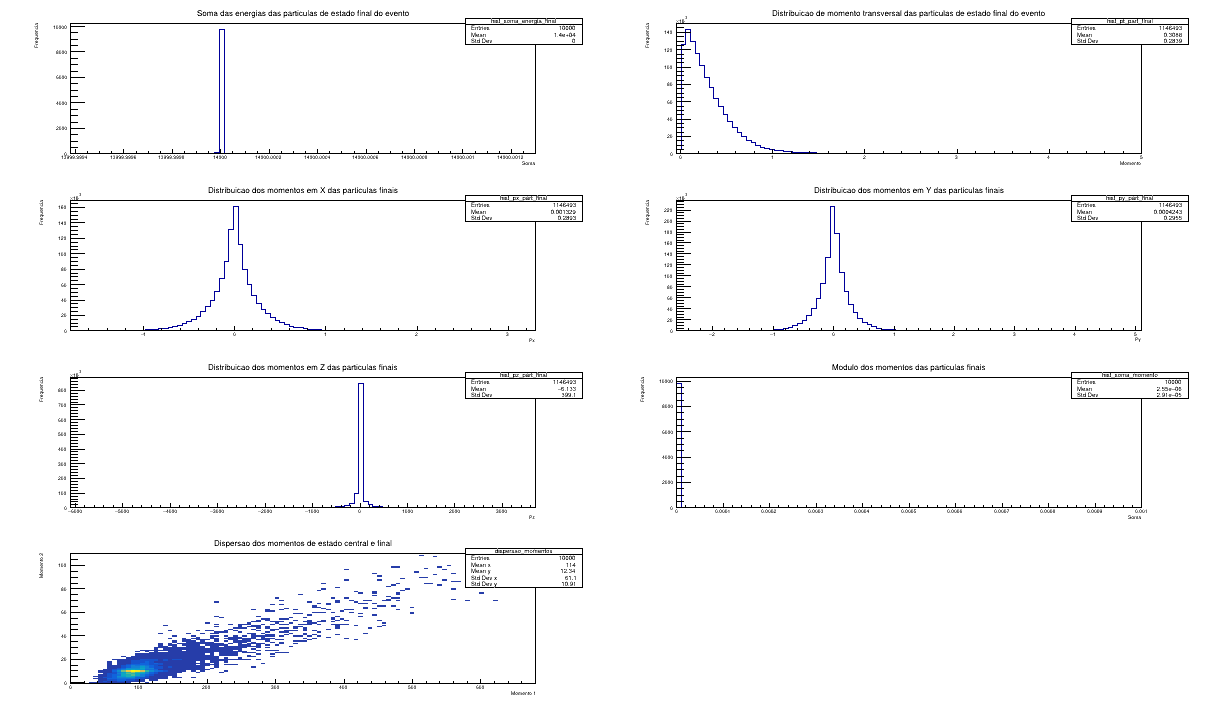
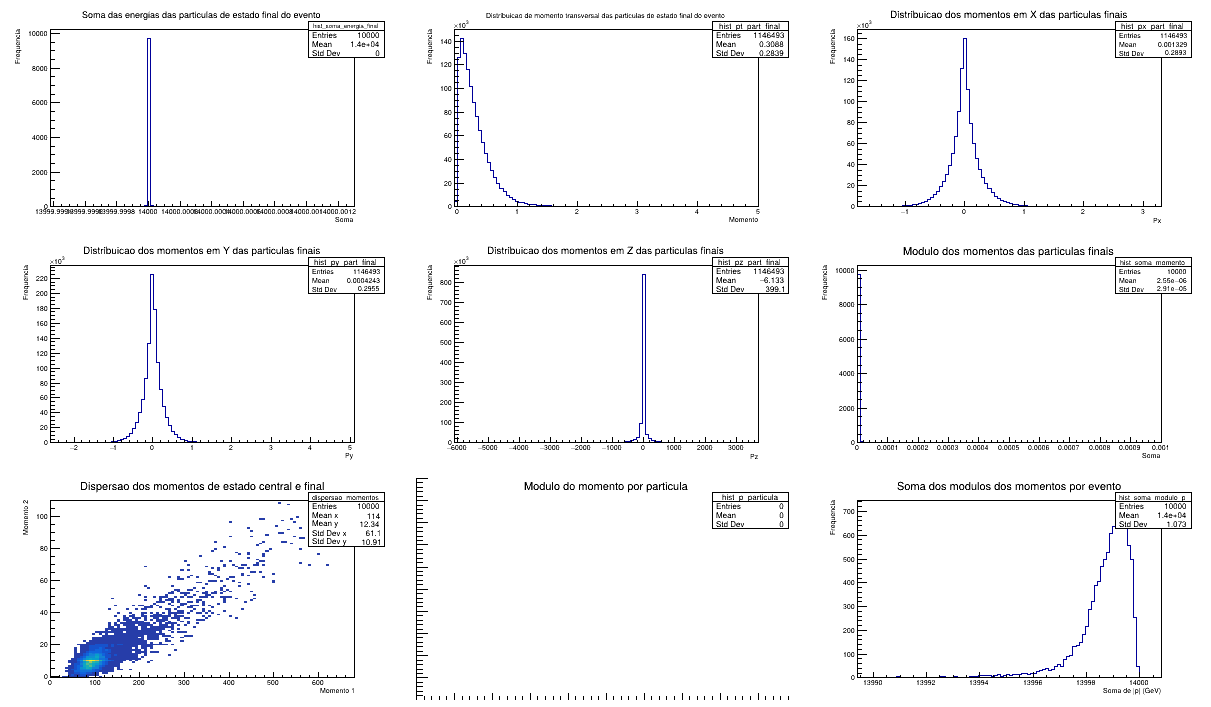
Adiciona graficos de rapidez, modulo do momento e saidas

diff --git a/teste_Ajustado.cpp b/teste_Ajustado.cpp
@@ -34,6 +34,9 @@ void distribuicoes_de_energia_e_momento(Int_t nev = 10000, Int_t ndeb = 1 /* Lis
   Double_t px, py, pz; // ADICIONADO (Faltou pz)
   Double_t energia_part_final;
   Double_t pt, cont_pt = 0, cont_pt2 = 0;
+  Double_t p_modulo, soma_modulo_p_modulo = 0;
+  Double_t rapidez_part_final;
+  
 
   // ADICIONADO: acumuladores dos numeros quanticos que faltavam no original.
   Double_t soma_carga = 0, soma_barionico = 0, soma_leptonico = 0;
@@ -44,8 +47,11 @@ void distribuicoes_de_energia_e_momento(Int_t nev = 10000, Int_t ndeb = 1 /* Lis
   TH1F *hist_px_part_final = new TH1F("hist_px_part_final", "Momentos transversais das particulas finais no eixo X", 100, 1, 1);
   TH1F *hist_py_part_final = new TH1F("hist_py_part_final", "Momentos transversais das particulas finais no eixo Y", 100, 1, 1);
   TH1F *hist_pz_part_final = new TH1F("hist_pz_part_final", "Momentos transversais das particulas finais no eixo Z", 100, 1, 1);
+  TH2F *hist_rapidez_energia = new TH2F("hist_rapidez_energia","Energia vs rapidez;Rapidez y;Energia (GeV)",100, -15, 15, 100, 0, 200);      // eixo y: energia, de 0 a 200
   TH1F *hist_soma_momento = new TH1F("hist_soma_momento", "Soma dos momentos das particulas finais dos eventos", 100, 0, 0.001);
   TH2F *dispersao_momentos = new TH2F("dispersao_momentos", "Dispersao dos momentos de estado central e final", 100, 1, 1, 100, 1, 1);
+  TH1F *hist_p_particula = new TH1F("hist_p_particula", "Modulo do momento por particula", 100, 1, 1);
+  TH1F *hist_soma_modulo_p = new TH1F("hist_soma_modulo_p", "Soma dos modulos por evento", 100, 1, 1);
 
   TPythia8 *pythia8 = new TPythia8();
   pythia8->ReadString("HardQCD:all = on");
@@ -58,6 +64,7 @@ void distribuicoes_de_energia_e_momento(Int_t nev = 10000, Int_t ndeb = 1 /* Lis
 
   for (Int_t iev = 0; iev < nev; iev++)
   {
+    soma_modulo_p_modulo = 0;
     cont_pt = 0;
     cont_pt2 = 0;
     soma_de_energia = 0;                                       // CORRIGIDO (faltava zerar a energia)
@@ -88,6 +95,7 @@ void distribuicoes_de_energia_e_momento(Int_t nev = 10000, Int_t ndeb = 1 /* Lis
         pz = part->Pz();                     // ADICIONADO
 
         energia_part_final = part->Energy();
+        rapidez_part_final = part->Y();
 
         Int_t pdg = part->GetPdgCode();      // ADICIONADO: identidade da particula
 
@@ -95,6 +103,9 @@ void distribuicoes_de_energia_e_momento(Int_t nev = 10000, Int_t ndeb = 1 /* Lis
         soma_px += px;
         soma_py += py;
         soma_pz += pz;
+
+        p_modulo = TMath::Sqrt(px*px + py*py + pz*pz); // ADICIONADO2
+        soma_modulo_p_modulo += p_modulo;             // ADICIONADO2
 
         soma_de_energia += energia_part_final;
 
@@ -110,6 +121,9 @@ void distribuicoes_de_energia_e_momento(Int_t nev = 10000, Int_t ndeb = 1 /* Lis
         hist_px_part_final->Fill(px);
         hist_py_part_final->Fill(py);
         hist_pz_part_final->Fill(pz); // ADICIONADO: histograma de pz
+        hist_p_particula->Fill(p_modulo);
+
+        hist_rapidez_energia->Fill(rapidez_part_final, energia_part_final); // ADICIONADO: histograma de rapidez
 
         if (-0.9 < eta && eta < 0.9)
         {
@@ -117,11 +131,13 @@ void distribuicoes_de_energia_e_momento(Int_t nev = 10000, Int_t ndeb = 1 /* Lis
         }
       }
     }
+    
     dispersao_momentos->Fill(cont_pt, cont_pt2);
 
     Double_t modulo_p_total = TMath::Sqrt(soma_px*soma_px + soma_py*soma_py + soma_pz*soma_pz);
     hist_soma_momento->Fill(modulo_p_total);   // CORRIGIDO
     hist_soma_energia_final->Fill(soma_de_energia); // CORRIGIDO (Posição dentro do loop)
+    hist_soma_modulo_p->Fill(soma_modulo_p_modulo); // ADICIONADO: histograma da soma dos modulos por evento
 
     // ADICIONADO: acumula para a media e imprime os primeiros eventos.
     tot_Q += soma_carga; tot_B += soma_barionico; tot_L += soma_leptonico;
@@ -133,53 +149,78 @@ void distribuicoes_de_energia_e_momento(Int_t nev = 10000, Int_t ndeb = 1 /* Lis
   }
 
 
+ // ===== CANVAS 1: momentos por particula (retratos) =====
+TCanvas *c1 = new TCanvas("c1", "Momentos por particula", 1600, 1000);
+c1->Divide(2, 2);
 
-  TCanvas *c1 = new TCanvas("c1", "Histogramas e distribuicao", 2500, 2500);
-  c1->Divide(2, 4);
+c1->cd(1);
+hist_momentos_particulas_finais->SetTitle("Momento transversal (pT) por particula");
+hist_momentos_particulas_finais->GetXaxis()->SetTitle("pT (GeV)");
+hist_momentos_particulas_finais->GetYaxis()->SetTitle("Frequencia");
+hist_momentos_particulas_finais->Draw();
 
-  c1->cd(1);
-  hist_soma_energia_final->SetTitle("Soma das energias das particulas de estado final do evento");
-  hist_soma_energia_final->GetXaxis()->SetTitle("Soma");
-  hist_soma_energia_final->GetYaxis()->SetTitle("Frequencia");
-  hist_soma_energia_final->Draw();
+c1->cd(2);
+hist_px_part_final->SetTitle("px por particula");
+hist_px_part_final->GetXaxis()->SetTitle("px (GeV)");
+hist_px_part_final->GetYaxis()->SetTitle("Frequencia");
+hist_px_part_final->Draw();
 
-  c1->cd(2);
-  hist_momentos_particulas_finais->SetTitle("Distribuicao de momento transversal das particulas de estado final do evento");
-  hist_momentos_particulas_finais->GetXaxis()->SetTitle("Momento");
-  hist_momentos_particulas_finais->GetYaxis()->SetTitle("Frequencia");
-  hist_momentos_particulas_finais->Draw();
+c1->cd(3);
+hist_py_part_final->SetTitle("py por particula");
+hist_py_part_final->GetXaxis()->SetTitle("py (GeV)");
+hist_py_part_final->GetYaxis()->SetTitle("Frequencia");
+hist_py_part_final->Draw();
 
-  c1->cd(3);
-  hist_px_part_final->SetTitle("Distribuicao dos momentos em X das particulas finais");
-  hist_px_part_final->GetXaxis()->SetTitle("Px");
-  hist_px_part_final->GetYaxis()->SetTitle("Frequencia");
-  hist_px_part_final->Draw();
+c1->cd(4);
+hist_pz_part_final->SetTitle("pz por particula");
+hist_pz_part_final->GetXaxis()->SetTitle("pz (GeV)");
+hist_pz_part_final->GetYaxis()->SetTitle("Frequencia");
+hist_pz_part_final->Draw();
 
-  c1->cd(4);
-  hist_py_part_final->SetTitle("Distribuicao dos momentos em Y das particulas finais");
-  hist_py_part_final->GetXaxis()->SetTitle("Py");
-  hist_py_part_final->GetYaxis()->SetTitle("Frequencia");
-  hist_py_part_final->Draw();
+c1->SaveAs("momentos_por_particula.png");
 
-  c1->cd(5);
-  hist_pz_part_final->SetTitle("Distribuicao dos momentos em Z das particulas finais");
-  hist_pz_part_final->GetXaxis()->SetTitle("Pz");
-  hist_pz_part_final->GetYaxis()->SetTitle("Frequencia");
-  hist_pz_part_final->Draw();
 
-  c1->cd(6);
-  hist_soma_momento->SetTitle("Modulo dos momentos das particulas finais");
-  hist_soma_momento->GetXaxis()->SetTitle("Soma");
-  hist_soma_momento->GetYaxis()->SetTitle("Frequencia");
-  hist_soma_momento->Draw();
+// ===== CANVAS 2: conservacao e somas por evento =====
+TCanvas *c2 = new TCanvas("c2", "Conservacao por evento", 1600, 1000);
+c2->Divide(2, 3);
 
-  c1->cd(7);
-  dispersao_momentos->SetTitle("Dispersao dos momentos de estado central e final");
-  dispersao_momentos->GetXaxis()->SetTitle("Momento 1");
-  dispersao_momentos->GetYaxis()->SetTitle("Momento 2");
-  dispersao_momentos->Draw();
+c2->cd(1);
+hist_soma_energia_final->SetTitle("Soma da energia por evento");
+hist_soma_energia_final->GetXaxis()->SetTitle("Energia total (GeV)");
+hist_soma_energia_final->GetYaxis()->SetTitle("Frequencia");
+hist_soma_energia_final->Draw();
 
-  c1 ->SaveAs("distribuicoes_de_energia_e_momento.png");
+c2->cd(2);
+hist_soma_momento->SetTitle("Modulo do momento total por evento");
+hist_soma_momento->GetXaxis()->SetTitle("|soma vetorial de p| (GeV)");
+hist_soma_momento->GetYaxis()->SetTitle("Frequencia");
+hist_soma_momento->Draw();
+
+c2->cd(3);
+hist_soma_modulo_p->SetTitle("Soma dos modulos dos momentos por evento");
+hist_soma_modulo_p->GetXaxis()->SetTitle("Soma de |p| (GeV)");
+hist_soma_modulo_p->GetYaxis()->SetTitle("Frequencia");
+hist_soma_modulo_p->Draw();
+
+c2->cd(4);
+dispersao_momentos->SetTitle("Multiplicidade: total x central (|eta|<0.9)");
+dispersao_momentos->GetXaxis()->SetTitle("N particulas (total)");
+dispersao_momentos->GetYaxis()->SetTitle("N particulas (central)");
+dispersao_momentos->Draw("COLZ");
+
+c2->cd(5);
+hist_p_particula->SetTitle("Modulo do momento por particula");
+hist_p_particula->GetXaxis()->SetTitle("|p| (GeV)");
+hist_p_particula->GetYaxis()->SetTitle("Frequencia");
+hist_p_particula->Draw();
+
+c2->cd(6);
+hist_rapidez_energia->SetTitle("Energia vs Rapidez");
+hist_rapidez_energia->GetXaxis()->SetTitle("Rapidez y");
+hist_rapidez_energia->GetYaxis()->SetTitle("Energia (GeV)");
+hist_rapidez_energia->Draw("COLZ");
+
+c2->SaveAs("conservacao_por_evento.png");
 
   // ADICIONADO
   printf("Medias sobre %d eventos:\n", nev);
@@ -188,8 +229,6 @@ void distribuicoes_de_energia_e_momento(Int_t nev = 10000, Int_t ndeb = 1 /* Lis
          hist_px_part_final->GetMean(), hist_py_part_final->GetMean(), hist_pz_part_final->GetMean());
   printf("  Q  = %+.3f   B  = %+.3f   L  = %+.3f\n",
          tot_Q / nev, tot_B / nev, tot_L / nev);
-
-
 
 
 }
